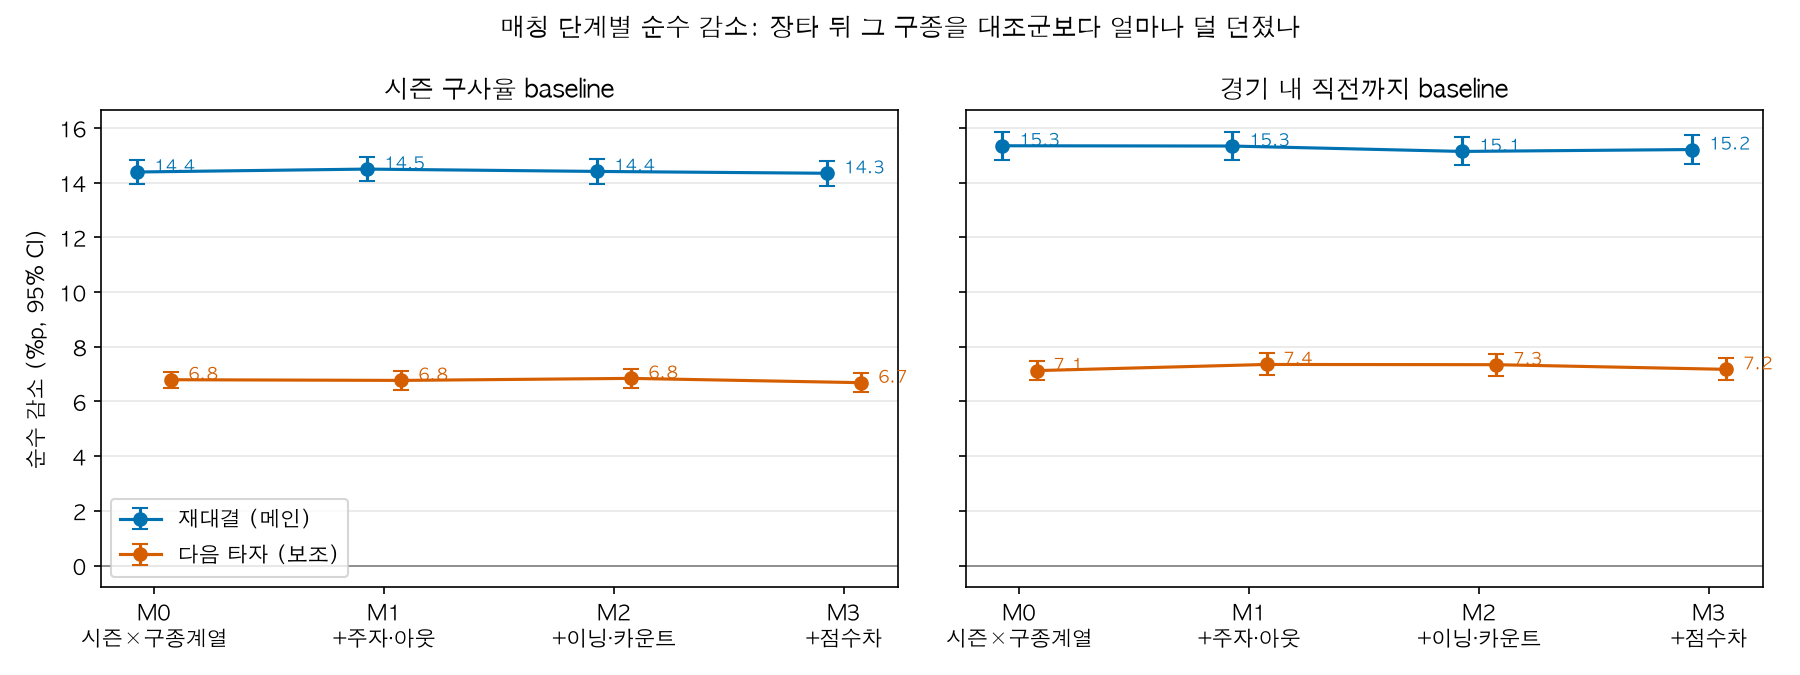
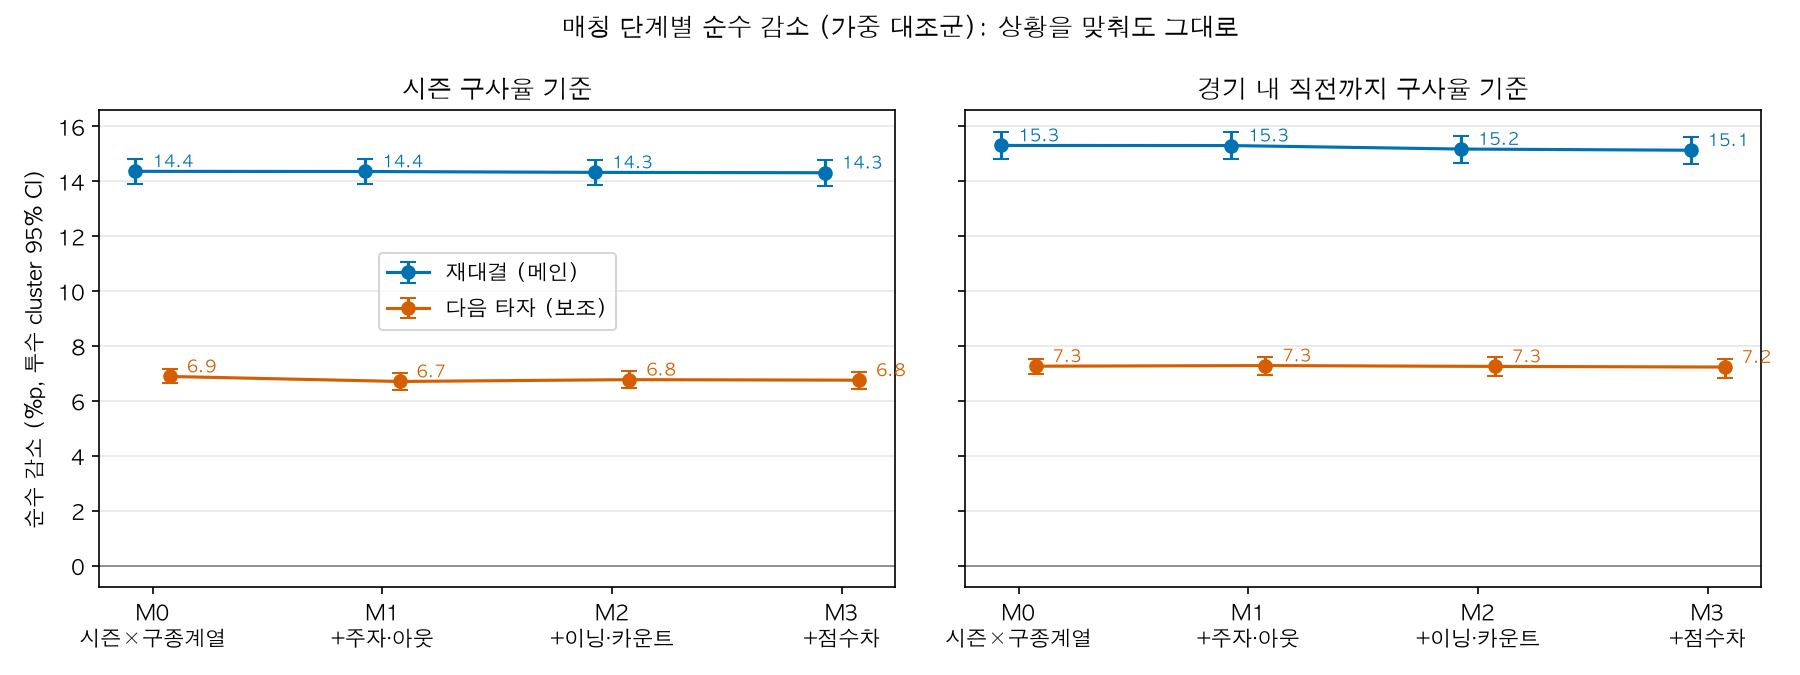
오류 수정
오류 수정

diff --git a/src/visualization/report_figures.py b/src/visualization/report_figures.py
@@ -18,14 +18,13 @@ from matplotlib.patches import FancyBboxPatch
 from src.analysis.avoidance_stats import compute_season_usage_rate
 from src.analysis.hit_quality import add_prior_game_usage, build_batted_ball_events
 from src.analysis.robust_inference import weighted_did
-from src.analysis.situation_matching import LADDER_STEPS, add_situation_columns
+from src.analysis.situation_matching import LADDER_LABELS, LADDER_STEPS, add_situation_columns
 from src.preprocessing.research_sample import list_research_csvs
 
 ROOT = Path(__file__).resolve().parents[2]
 SRC_FIG = ROOT / "data" / "processed" / "figures"
 OUT = ROOT / "docs" / "figures"
 COPIED = {
-    "ladder_pure_reduction.png": "04_matching_ladder.png",
     "ladder_balance_smd.png": "05_balance_smd.png",
     "ladder_group_odds_ratio.png": "06_odds_ratio.png",
     "batter_specific_by_slot.png": "07_by_slot.png",
@@ -112,9 +111,38 @@ def basic_figure(path: Path, nums: dict) -> None:
     plt.close(fig)
 
 
+def ladder_figure(path: Path) -> None:
+    """M0-M3 net reduction from notebook 06 (weighted controls, pitcher-cluster CI): the report's numbers."""
+    d = pd.read_csv(ROOT / "data" / "processed" / "robust_pure_reduction.csv")
+    steps = list(LADDER_STEPS)
+    labels = {"same_batter": "재대결 (메인)", "next_batter": "다음 타자 (보조)"}
+    colors = {"same_batter": "#0072B2", "next_batter": "#D55E00"}
+    fig, axes = plt.subplots(1, 2, figsize=(12, 4.5), sharey=True)
+    for ax, (base, title) in zip(axes, [("season", "시즌 구사율 기준"), ("game", "경기 내 직전까지 구사율 기준")]):
+        for i, mode in enumerate(["same_batter", "next_batter"]):
+            m = d[(d["mode"] == mode) & (d["baseline"] == base)].set_index("step").loc[steps]
+            xs = [k + (i - 0.5) * 0.15 for k in range(len(steps))]
+            y = m["net_w"] * 100
+            ax.errorbar(xs, y, yerr=[y - m["ci_cluster_low"] * 100, m["ci_cluster_high"] * 100 - y],
+                        fmt="o-", capsize=4, color=colors[mode], label=labels[mode])
+            for x, v in zip(xs, y):
+                ax.annotate(f"{v:.1f}", (x, v), textcoords="offset points", xytext=(8, 2), fontsize=8, color=colors[mode])
+        ax.set_xticks(range(len(steps)), [f"{s}\n{LADDER_LABELS[s]}" for s in steps])
+        ax.set_title(title)
+        ax.axhline(0, color="grey", lw=0.8)
+        ax.grid(axis="y", alpha=0.3)
+    axes[0].set_ylabel("순수 감소 (%p, 투수 cluster 95% CI)")
+    axes[0].legend(loc="center", bbox_to_anchor=(0.5, 0.62))
+    fig.suptitle("매칭 단계별 순수 감소 (가중 대조군): 상황을 맞춰도 그대로")
+    fig.tight_layout()
+    fig.savefig(path, dpi=150)
+    plt.close(fig)
+
+
 def main() -> None:
     OUT.mkdir(parents=True, exist_ok=True)
     design_figure(OUT / "02_design.png")
+    ladder_figure(OUT / "04_matching_ladder.png")
     nums = basic_numbers()
     basic_figure(OUT / "03_basic_avoidance.png", nums)
     for src, dst in COPIED.items():

diff --git a/docs/보고서.md b/docs/보고서.md
@@ -15,11 +15,13 @@
 | 질문 | 답 | 핵심 수치 |
 |---|---|---|
 | 장타를 친 타자를 같은 경기에서 다시 만나면, 그 구종을 덜 던지는가? | **예** | 비슷한 상황의 아웃 뒤보다 **14.3%p** 덜 던짐. 다시 던질 오즈는 약 **0.29배** |
-| 경기 상황(주자·아웃·이닝·카운트·점수차)을 맞춰도 남는가? | **예** | 상황을 단계별로 맞춰도 14.4 → 14.3%p로 그대로 |
-| 장타를 친 **그 타자**를 향한 회피인가? | **주로 그렇다** | 같은 장타 안에서 중간 타자에게는 4.0%p, 그 타자에게는 13.5%p. 장타 전에는 오히려 그 구종을 더 던졌음 |
-| 결과(장타) 때문인가, 잘 맞은 타구 때문인가? | **둘 다** | 잘 맞은 아웃도 피함(배럴 아웃 +10.1%p). 타구 질이 같아도 결과가 나쁠수록 더 피함. 홈런은 타구 질과 거의 무관 |
-| 그날 그 구종이 안 좋아서 피한 것 아닌가? | **아니다** | 그날 구종 상태와 장타 맞은 공의 위치·구속까지 맞춰도 13.6%p 이상 남음 |
+| 경기 상황(주자·아웃·이닝·카운트·점수차)을 맞춰도 남는가? | **예** | 시즌·구종계열만 맞췄을 때 14.4%p, 경기 상황까지 모두 맞췄을 때 14.3%p로 거의 같음 |
+| 장타를 친 **그 타자**를 향한 회피인가? | **주로 그렇다** | 같은 장타 안에서, 그 사이 상대한 다른 타자들보다 그 타자에게 **9.5%p** 더 피함. 장타 전에는 오히려 그 구종을 더 던졌음 |
+| 결과(장타) 때문인가, 잘 맞은 타구 때문인가? | **둘 다** | 잘 맞은 아웃도 피함(배럴 아웃은 비배럴 아웃보다 10.1%p 더 피함). 타구 질이 같아도 결과가 나쁠수록 더 피함. 홈런은 타구 질과 거의 무관 |
+| 그날 그 구종이 안 좋아서 피한 것 아닌가? | **아니다** | 그날 구종 상태와 장타 맞은 공의 위치·구속까지 맞춰도 14.3%p가 13.6%p로 줄어드는 데 그침 |
 | 그렇게 피한 것이 좋은 선택이었나? | **아직 모름** | 다음 단계 |
+
+*이 보고서의 대표 수치는 **14.3%p**(재대결, 경기 상황을 모두 맞춘 M3, 시즌 구사율 기준)입니다. 다른 절의 숫자가 이와 조금 다르면, 그 절에서 이유를 밝혔습니다.*
 
 **한 문장으로:** 투수는 장타를 맞은 구종을 **그 장타를 친 타자에게** 뚜렷하게 덜 던지고, 이 경향은 경기 상황이나 그날 구종 상태로 설명되지 않는 **장타라는 사건에 대한 반응**입니다.
 
@@ -129,7 +131,7 @@
 
 - 장타군은 평소 T를 29.5% 던지던 투수들인데, 재대결에서는 **18.5%**만 던졌습니다(−11.0%p).
 - 대조군은 평소 29.4%에서 재대결 **32.8%**로 오히려 늘었습니다(+3.4%p). 같은 경기에서 이미 던진 구종을 다시 쓰는 일반적인 경향입니다. 삼진·볼넷이나 결과와 무관한 공을 기준으로 해도 비슷하게 늘어서, "아웃을 잡아서 신뢰가 생긴 것"이 아닙니다.
-- 그래서 **순수 감소는 약 14.4%p**입니다. 평소 구사율의 거의 절반에 해당하는 크기입니다.
+- 그래서 **순수 감소는 14.4%p**입니다. 평소 구사율의 거의 절반에 해당하는 크기입니다. (이 그림은 시즌과 구종계열만 맞춘 M0 기준입니다. 경기 상황까지 모두 맞추면 14.3%p이고, 이것이 이 보고서의 대표 수치입니다. 4-2절)
 - 재대결에서 T를 한 번이라도 던진 비율은 장타군 45.7%, 대조군 67.7%입니다. 혼합모델의 오즈비는 **0.29** [0.27, 0.31]로, 장타를 맞은 뒤 T를 다시 던질 오즈가 대조군의 약 30%입니다.
 - 평소 그 구종에 많이 의존하는 투수일수록 덜 피합니다(구사율과의 상호작용 오즈비 약 2.0). 대체할 구종이 마땅치 않으면 피하기 어렵다는 해석과 맞습니다.
 
@@ -137,7 +139,7 @@
 
 ![매칭 단계별 순수 감소](figures/04_matching_ladder.png)
 
-*그림은 1:1 표본 기준. 아래 표는 가중 대조군 + 투수 cluster 95% CI 기준(보고서 기준값).*
+*그림과 표 모두 가중 대조군 + 투수 cluster 95% 신뢰구간 기준입니다(3-4절).*
 
 | 단계 | 재대결 순수 감소 (시즌 기준) | 재대결 (경기 내 기준) | group 오즈비 | 장타 유지율 |
 |---|---:|---:|---:|---:|
@@ -145,6 +147,8 @@
 | M1 + 주자·아웃 | 14.36%p [13.89, 14.80] | 15.30%p | 0.28 [0.26, 0.30] | 100% |
 | M2 + 이닝·카운트 | 14.32%p [13.86, 14.79] | 15.17%p | 0.29 [0.27, 0.32] | 100% |
 | **M3 + 점수차** | **14.31%p [13.83, 14.76]** | **15.13%p** [14.63, 15.62] | **0.29** [0.27, 0.31] | 98% |
+
+*순수 감소는 가중 대조군 값이고, 오즈비는 혼합모델을 대조군 1:1 표본에 맞춘 값입니다(가중 방식으로는 모델을 적합하지 않았습니다). 1:1 표본을 다시 뽑으면 오즈비가 ±0.01 정도 움직입니다(4-9절).*
 
 - **우려는 실제로 있었습니다.** M0에서 장타는 대조군보다 주자가 있을 때 더 자주 나왔습니다(주자 수 SMD 0.12). 매칭하면 이 차이가 0이 됩니다.
 - **그런데 결과는 거의 변하지 않습니다.** 네 단계의 차이가 모두 신뢰구간 안입니다. 상황이 회피를 만든 것이 아닙니다.
@@ -158,13 +162,21 @@
 
 ### 4-3. 구종·시즌·좌우를 나눠 봐도 같다
 
-이 절은 상황 매칭 전(M0, 2026-09-25 분석)의 결과입니다. 원본 데이터 파이프라인 기준이라 위 수치와 소수점 단위로 조금 다릅니다([분석결과_상세.md](분석결과_상세.md)).
+이 절은 상황 매칭 전(M0, 2026-09-25 분석)의 결과입니다. 원본 데이터 파이프라인 기준이라 위 수치와 소수점 단위로 조금 다릅니다([분석결과_상세.md](분석결과_상세.md)). 지표가 세 종류라 나눠 적습니다.
+
+**순수 감소 (대조군을 뺀 값, 4-2절과 같은 지표)**
 
 - **구종계열:** 패스트볼 13.8%p, 브레이킹 15.6%p, 오프스피드 16.4%p
-- **구종별 오즈비(9개):** 모든 구종에서 회피(0.22~0.47). 포심이 가장 약하고(0.47), 커브·체인지업·커터·슬라이더가 가장 강함(0.22~0.27). 구종 간 차이는 통계적으로 유의함
-- **시즌별:** 2021~2026 여섯 시즌 모두 장타 뒤 −10.5 ~ −11.3%p로 일정
-- **좌우:** 투수와 타자 손이 같을 때와 다를 때 회피 크기에 차이가 없음(상호작용 오즈비 0.98, p = 0.63)
 - **같은 투수끼리 비교:** 대조군을 같은 투수·시즌·구종계열의 아웃으로만 뽑아도 14.3%p로 같음
+
+**오즈비 (혼합모델, 1보다 작을수록 회피)**
+
+- **구종별(9개):** 모든 구종에서 회피(0.22~0.47). 포심이 가장 약하고(0.47), 커브·체인지업·커터·슬라이더가 가장 강함(0.22~0.27). 구종 간 차이는 통계적으로 유의함
+- **좌우:** 투수와 타자 손이 같을 때와 다를 때 회피 크기에 차이가 없음(상호작용 오즈비 0.98, p = 0.63)
+
+**장타군만의 변화 (대조군을 빼지 않은 값)**
+
+- **시즌별:** 2021~2026 여섯 시즌 모두 장타 뒤 그 구종의 비율이 평소보다 10.5~11.3%p 낮음. 대조군을 빼지 않은 값이라 순수 감소(약 14%p)보다 작지만, 시즌마다 거의 같다는 점을 보여 줍니다
 
 ### 4-4. 바로 다음 타자에게도 피하지만, 절반 이하다
 
@@ -189,15 +201,18 @@
 - 장타 직후 다음 타자에게는 6.9%p, 두 번째 5.5%p, 세 번째부터는 3~4%p로 줄어듭니다.
 - 그런데 장타를 친 타자가 다시 나오면 **13.5%p**로 뛰어오릅니다.
 - 중간 타자 평균은 4.0%p [3.8, 4.2], 재대결은 13.5%p [13.0, 14.0]. 그 차이인 **타자 맞춤 회피는 9.5%p** [9.0, 10.0]입니다. 재대결 회피의 약 70%가 그 타자를 향한 것입니다.
+- 여기서 재대결 값(13.5%p)이 대표 수치(14.3%p)와 조금 다른 것은 기준이 달라서입니다. 중간 타자와 공정하게 비교하려고 평소 구사율을 **타자 손(좌/우)별** 시즌 구사율로 바꿨습니다.
 - 홈런 뒤(11.5%p)가 2·3루타 뒤(8.2%p)보다 크고, 패스트볼·브레이킹·오프스피드 모두에서 나타납니다.
 
 ![장타 전과 후](figures/08_before_after.png)
 
-**"원래 강타자라 피한 것"도 아닙니다.** 장타 전에 같은 경기에서 그 타자를 상대한 경우(약 3분의 1)를 보면, 장타 **이전**에는 오히려 그 구종을 평소보다 더 던지고 있었습니다(−1.5%p). 장타가 기점입니다.
+**"원래 강타자라 피한 것"도 아닙니다.** 장타 전에 같은 경기에서 그 타자를 상대한 경우(약 3분의 1)를 보면, 장타 **이전**에는 오히려 그 구종을 평소보다 더 던지고 있었습니다(−1.5%p). 장타가 기점입니다. (이 그림의 재대결 값 13.9%p는 이 3분의 1 이벤트만으로 계산한 값입니다.)
 
 ### 4-6. 결과와 타구 질 모두에 반응한다
 
 장타는 대부분 잘 맞은 타구라서, 투수가 "장타"라는 결과에 반응하는지 "잘 맞았다"는 타구 질에 반응하는지 섞여 있습니다. 타구가 나온 모든 타석(아웃·단타·2·3루타·홈런)을 타구 질(xwOBA, 기대 득점 가치) 4분위로 나누고, **약하게 맞은 아웃**(투수가 결과와 타구 질 모두에서 이긴 경우)과 비교했습니다.
+
+> ⚠ **이 절의 숫자는 앞 절과 기준이 다릅니다.** 앞 절은 "비슷한 상황의 아웃 전체"와 비교한 순수 감소이고, 이 절은 "약하게 맞은 아웃"과 비교한 값입니다(배럴 그림은 "비배럴 아웃"과 비교). 아웃 전체에는 잘 맞은 아웃도 섞여 있어 기준이 더 높으므로, 이 절의 숫자(예: 홈런 +19.0%p)를 14.3%p와 직접 비교하면 안 됩니다. 이 절에서는 칸끼리의 **순서와 차이**를 보세요.
 
 ![타구 질별 회피](figures/09_hit_quality_xwoba.png)
 
